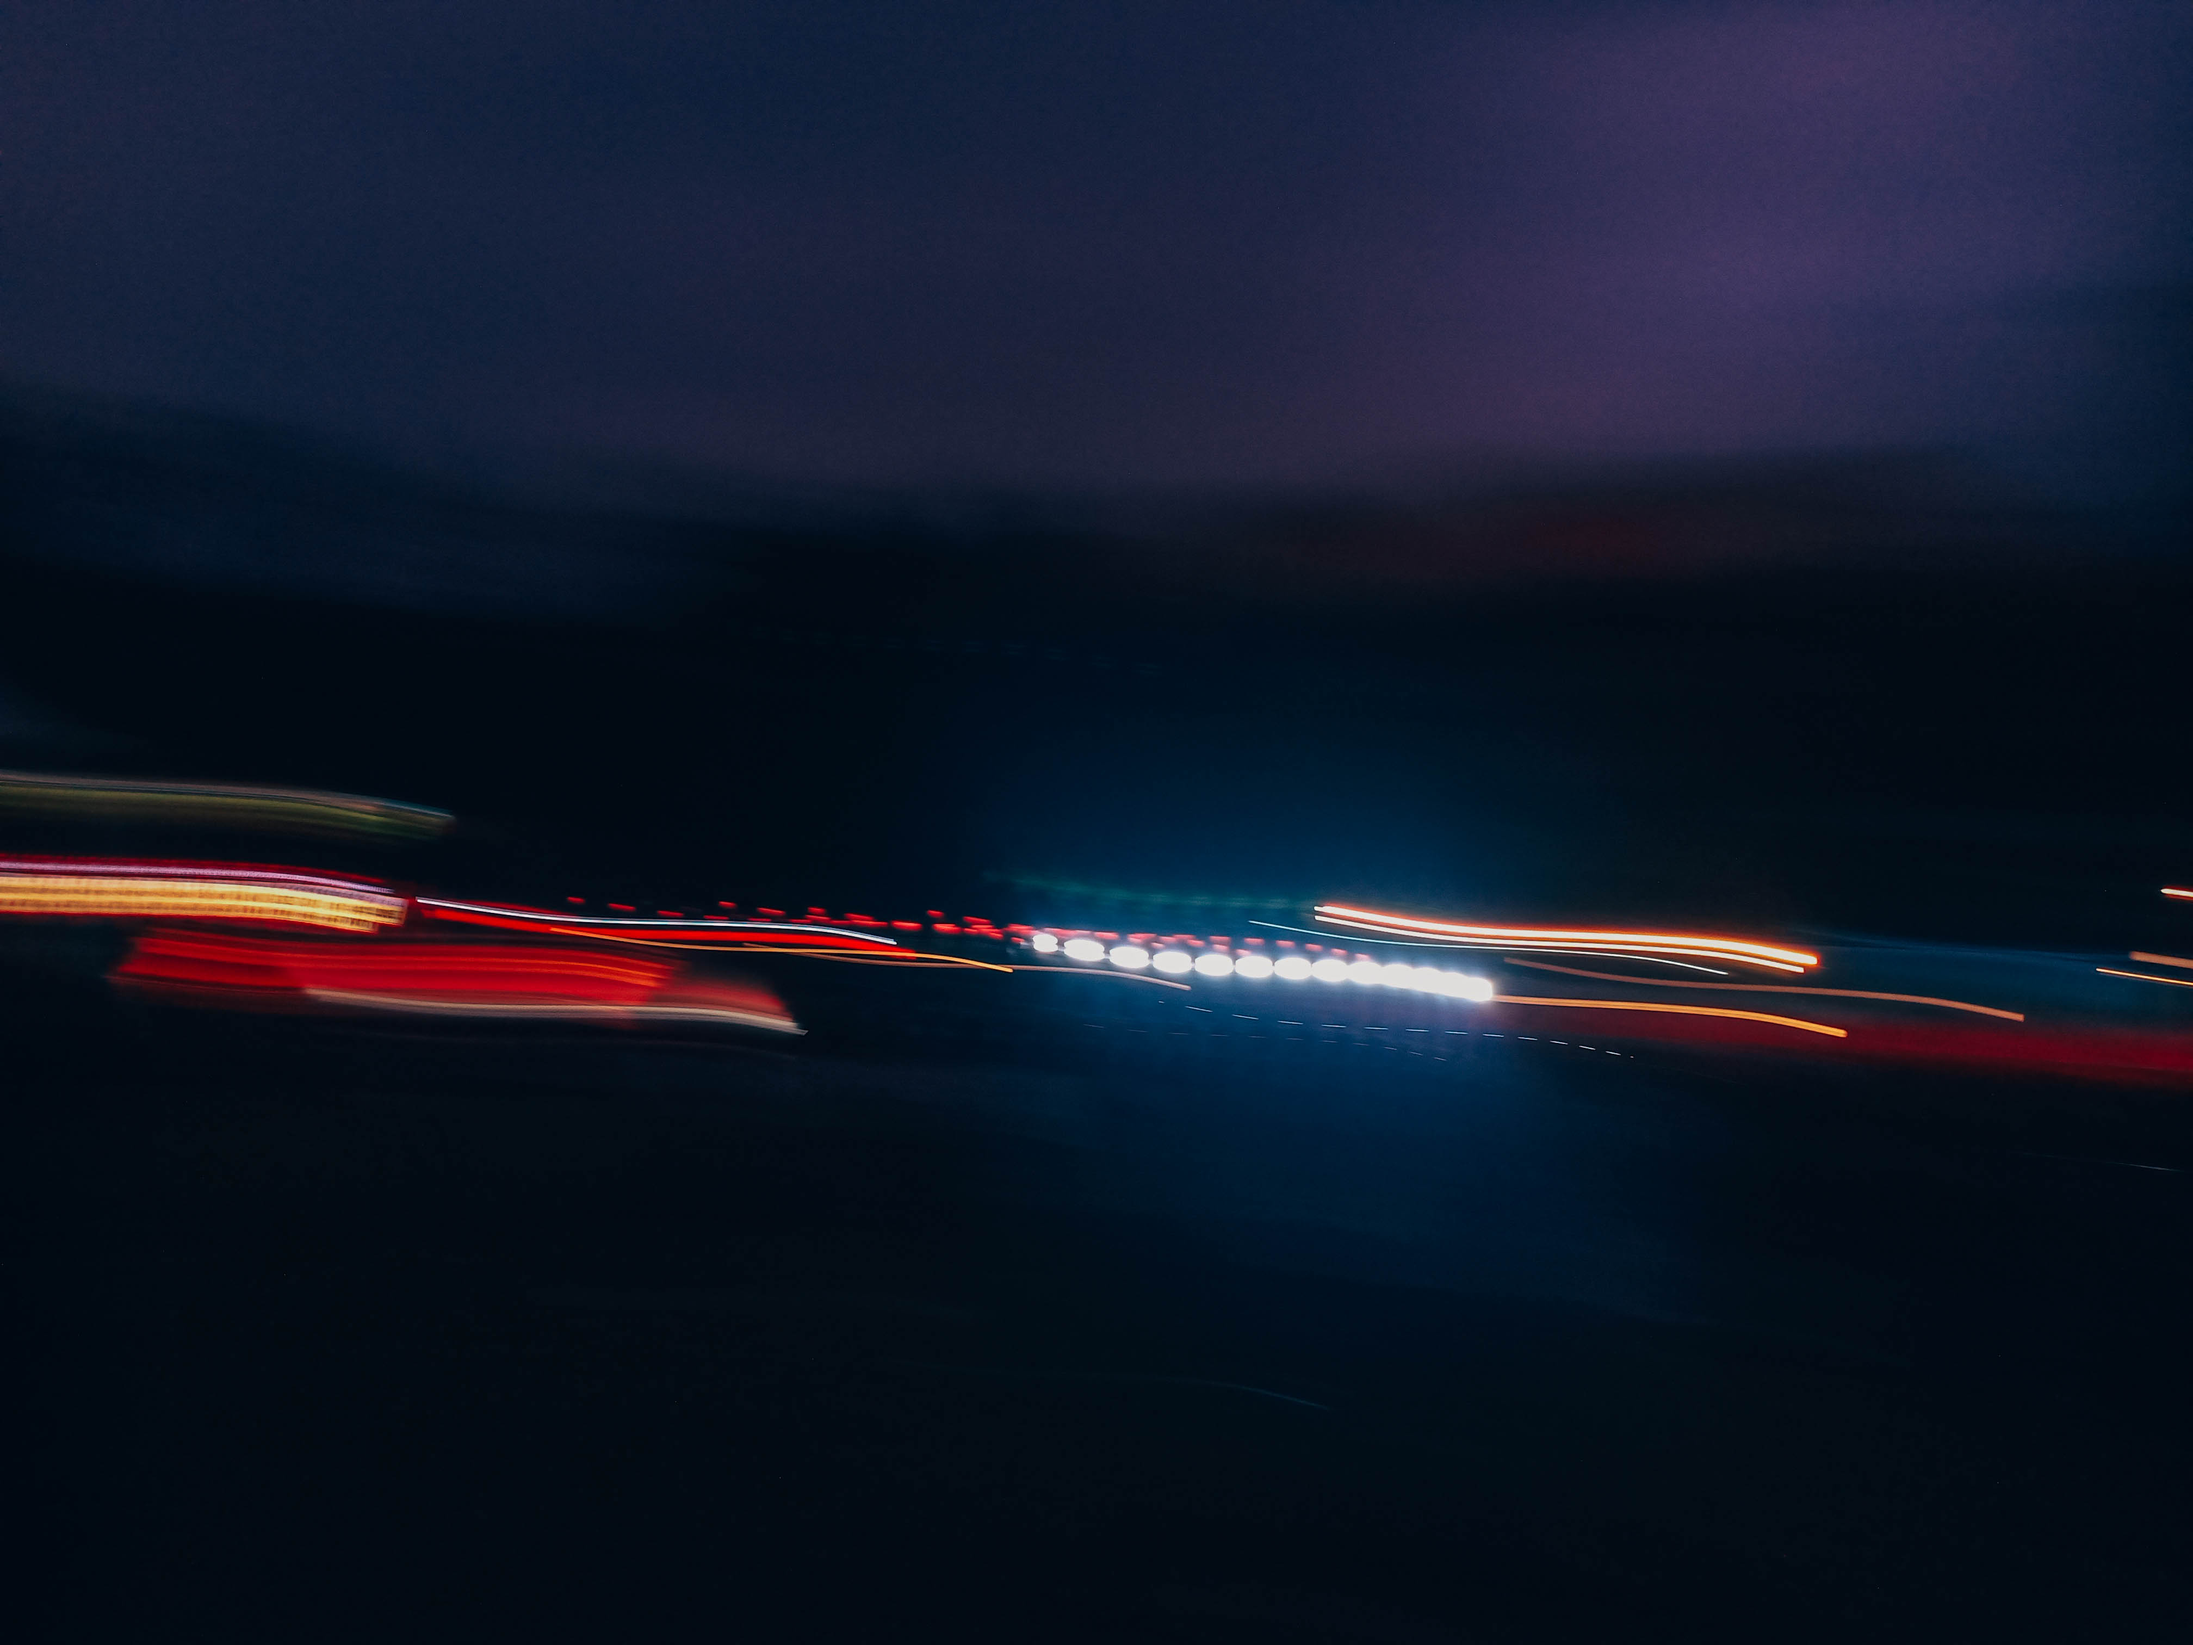
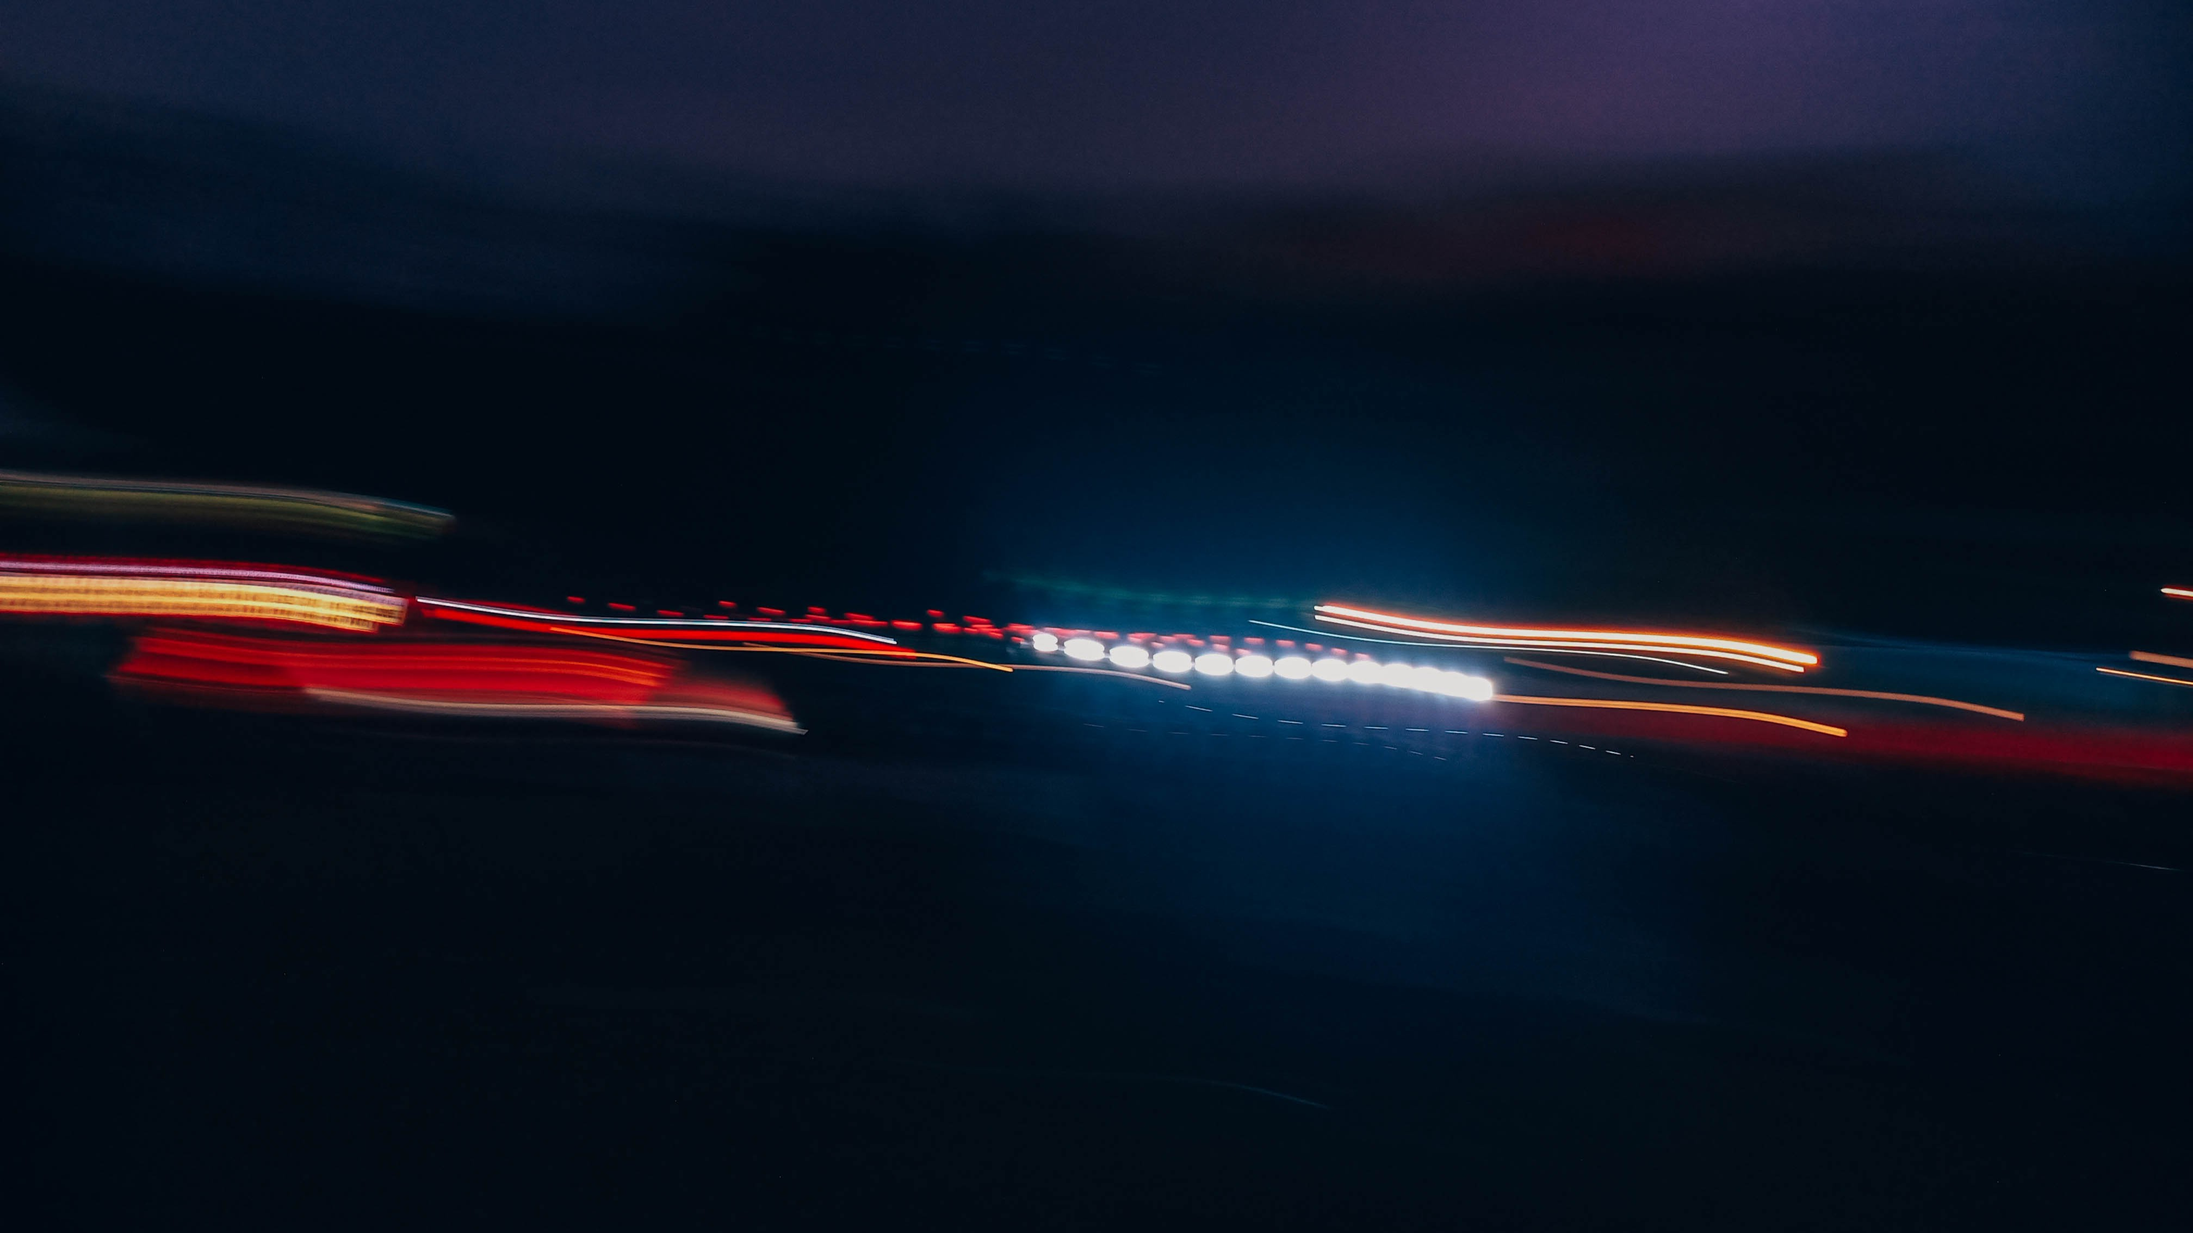
added more portfolio

Changed region(s): [[0.0, 0.3704, 1.0, 0.679], [0.0, 0.0926, 1.0, 0.3395], [0.9688, 0.463, 1.0, 0.4938]]

diff --git a/script.js b/script.js
@@ -120,6 +120,27 @@
                 description: 'Self-service laundry website built with Bootstrap'
             },
             {
+                type: 'web',
+                title: 'Point of Sale',
+                image: 'img/website_4.png',
+                link: 'https://github.com/CZY774/learn-cpp/blob/a678cc23e28c124a1a726b96893a884758426f00/tts.cpp',
+                description: 'Implementing struct and file handling with C++'
+            },
+            {
+                type: 'web',
+                title: 'Clothes Shopping App',
+                image: 'img/website_5.png',
+                link: 'https://github.com/CZY774/C-program/blob/main/tugas-rancang.c',
+                description: 'Clothes shopping app built with C that implements struct, file handling, sorting, and searching algorithms.'
+            },
+            {
+                type: 'web',
+                title: 'Supermarket & Warehouse Management System',
+                image: 'img/website_6.png',
+                link: 'https://github.com/CZY774/gudang-supermarket-java-netbeans',
+                description: 'A system built in Java using NetBeans IDE and MySQL, featuring OOP principles and real-time time tracking.'
+            },
+            {
                 type: 'photo',
                 title: 'Shutter Bliss',
                 image: 'img/photo_1.jpg',
@@ -129,7 +150,7 @@
                 type: 'photo',
                 title: 'Street Snapshot',
                 image: 'img/photo_2.jpg',
-                description: 'Professional portrait photography'
+                description: 'Photography series capturing street scenes'
             },
             {
                 type: 'photo',
@@ -148,6 +169,18 @@
                 title: 'Idea To Profit | Be A Smart Entrepreneur',
                 image: 'img/photo_7.png',
                 description: 'FIT Competition 2023 Timeline'
+            },
+            {
+                type: 'photo',
+                title: 'Blue Sky, Blue Sea',
+                image: 'img/photo_5.jpg',
+                description: 'Beautiful landscape photography'
+            },
+            {
+                type: 'photo',
+                title: 'Night Drive',
+                image: 'img/photo_8.jpg',
+                description: 'Capturing night scenes'
             },
             {
                 type: 'video',

diff --git a/index.html b/index.html
@@ -338,7 +338,7 @@
             
             <div class="flex justify-center mb-8 space-x-4">
                 <button class="work-filter active px-4 py-2 rounded-full bg-blue-500 text-white" data-category="all">All</button>
-                <button class="work-filter px-4 py-2 rounded-full dark:bg-gray-700 bg-gray-200" data-category="web">Web</button>
+                <button class="work-filter px-4 py-2 rounded-full dark:bg-gray-700 bg-gray-200" data-category="web">Apps & Websites</button>
                 <button class="work-filter px-4 py-2 rounded-full dark:bg-gray-700 bg-gray-200" data-category="photo">Photo</button>
                 <button class="work-filter px-4 py-2 rounded-full dark:bg-gray-700 bg-gray-200" data-category="video">Video</button>
             </div>
